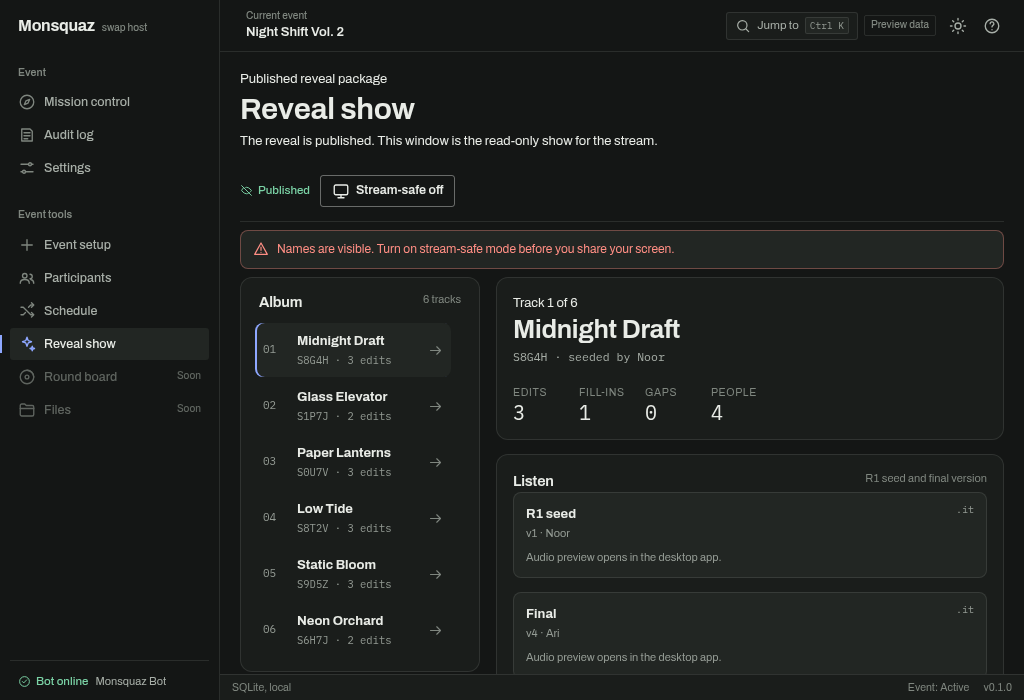
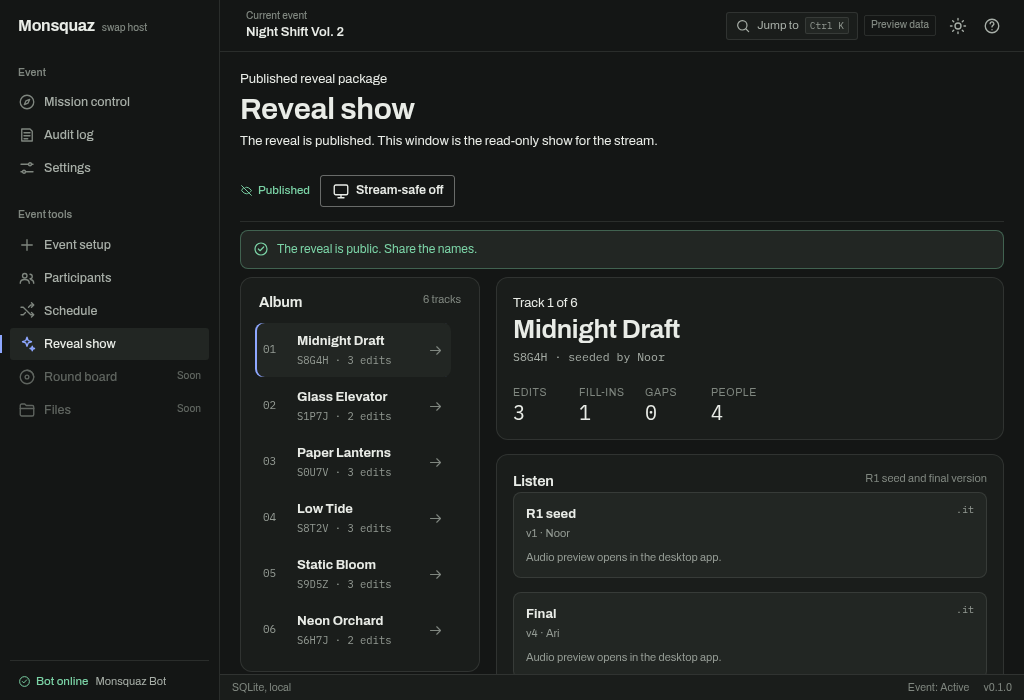
docs: record the reveal review and add the gap and blocked captures

Changed region(s): [[0.25, 0.33, 0.6562, 0.39]]

diff --git a/ui/src/views/Reveal.tsx b/ui/src/views/Reveal.tsx
@@ -8,7 +8,7 @@ import {
   StatusPill,
 } from "../components";
 import { Icon } from "../icons";
-import { previewUrl } from "../data/client";
+import { isDemoMode, previewUrl } from "../data/client";
 import type {
   RevealAlbumTrack,
   RevealComment,
@@ -72,10 +72,21 @@ export function RevealView({
   onAction: (message: string) => void;
 }) {
   const [selectedCode, setSelectedCode] = useState(
-    () => data.album[0]?.trackCode ?? "",
+    () =>
+      new URLSearchParams(window.location.search).get("track") ??
+      data.album[0]?.trackCode ??
+      "",
   );
   const [confirmStreamOff, setConfirmStreamOff] = useState(false);
-  const [publishBlocked, setPublishBlocked] = useState<string[]>([]);
+  const [publishBlocked, setPublishBlocked] = useState<string[]>(() => {
+    if (
+      isDemoMode() &&
+      new URLSearchParams(window.location.search).get("blocked") === "1"
+    ) {
+      return ["Track S7F3A · round 3"];
+    }
+    return [];
+  });
   const [titleDraft, setTitleDraft] = useState("");
   const [commentBody, setCommentBody] = useState("");
   const [commentKind, setCommentKind] = useState("comment");
@@ -323,9 +334,14 @@ export function RevealView({
 
       {streamSafe ? (
         <p className="reveal-safe-note" role="status">
-          <Icon name="shield" size={16} /> Name labels and the host editing tools
-          are hidden. Comment text is shown as written. Publishing stays
-          available.
+          <Icon name="shield" size={16} />
+          {data.published
+            ? " Stream-safe hides the public credits. Turn it off to show the reveal."
+            : " Name labels and the host editing tools are hidden. Comment text is shown as written. Publishing stays available."}
+        </p>
+      ) : data.published ? (
+        <p className="reveal-public-note" role="status">
+          <Icon name="check" size={16} /> The reveal is public. Share the names.
         </p>
       ) : (
         <p className="reveal-unsafe-note" role="status">
@@ -693,8 +709,9 @@ export function RevealView({
           }
         >
           <p>
-            Participant names and the host editing tools become visible. Only
-            turn this off when the screen is not shared.
+            {data.published
+              ? "Participant names, titles, credits, and comments become visible to the stream. This is the published reveal."
+              : "Participant names and the host editing tools become visible. Only turn this off when the screen is not shared."}
           </p>
         </Dialog>
       ) : null}

diff --git a/ui/src/App.test.tsx b/ui/src/App.test.tsx
@@ -216,6 +216,20 @@ describe("App", () => {
     expect(
       screen.queryByRole("button", { name: "Publish reveal" }),
     ).not.toBeInTheDocument();
+    expect(
+      screen.getByText(/Stream-safe hides the public credits/),
+    ).toBeInTheDocument();
+    fireEvent.click(screen.getByRole("button", { name: "Stream-safe mode" }));
+    const off = await screen.findByRole("dialog", {
+      name: "Turn off stream-safe mode?",
+    });
+    expect(within(off).getByText(/published reveal/i)).toBeInTheDocument();
+    fireEvent.click(
+      within(off).getByRole("button", { name: "Turn off stream-safe" }),
+    );
+    expect(
+      screen.getByText("The reveal is public. Share the names."),
+    ).toBeInTheDocument();
   });
 
   it("keeps the publish dialog open when the reveal is blocked", async () => {

diff --git a/ui/src/App.css b/ui/src/App.css
@@ -3758,7 +3758,8 @@ select.input {
 }
 
 .reveal-safe-note,
-.reveal-unsafe-note {
+.reveal-unsafe-note,
+.reveal-public-note {
   display: flex;
   align-items: center;
   gap: 8px;
@@ -3774,6 +3775,11 @@ select.input {
 .reveal-unsafe-note {
   border-color: color-mix(in srgb, var(--danger) 35%, transparent);
   color: var(--danger);
+}
+
+.reveal-public-note {
+  border-color: color-mix(in srgb, var(--mint) 35%, transparent);
+  color: var(--mint);
 }
 
 .button[aria-pressed="true"] {
@@ -4233,7 +4239,7 @@ select.input {
 }
 
 .reveal-audio__note {
-  color: var(--faint);
+  color: var(--faint-raised);
 }
 
 .reveal-audio__error {

diff --git a/docs/ui/reviews/MSW-050.md b/docs/ui/reviews/MSW-050.md
@@ -1,0 +1,115 @@
+# UI review — MSW-050 reveal presenter
+
+Review date: 2026-11-26. Build: MSW-050 worktree.
+
+Screenshots: `docs/ui/screens/reveal-*.png`.
+
+## Scope
+
+- Host-only reveal presenter: ordered album, lineage, R1/final audio, credits,
+  comments, stats, and the read-only published state.
+- Stream-safe mode: default on, persistence, confirmation before names show.
+- Publish reveal and redact-comment dialogs.
+- Titles and comments before publish.
+- The opaque audio preview protocol.
+- The deterministic design gate (`design/`, `scripts/design-check.sh`).
+
+## Wave 1 — Visual design
+
+| View | State | Severity | Problem | Resolution |
+|---|---|---|---|---|
+| Album card | Long event name | must-fix | The album heading collapsed and the event name overflowed the card. | The album meta is now only the track count. The detail title wraps. |
+| Album card | Dense, 1024 | must-fix | The sticky 12-track album exceeded the scrollport. | The album list has a bounded internal scroll area. |
+| Loading | All | must-fix | The skeleton was blank because its nodes had no size. | The view uses sized `Skeleton` components and a status label. |
+| Header and tools | Populated | must-fix | Publish, Save title, and stream-safe competed as primary actions. | Publish is the only primary. Save title and stream-safe are secondary. |
+| Listen, lineage, credits, comments | Dark | should-fix | Faint metadata and the Fill-in badge were below AA on raised surfaces. | Faint text uses `--faint-raised`; the badge uses `--accent`. |
+| Lineage | All | nit | The second version dot looked disabled. | Removed the arbitrary grey dot. Gaps use a hollow dot. |
+| Header actions | 1024 | nit | The actions wrapped into three rows. | The header stacks and the actions share one row. |
+
+No must-fix remained after the fixes. The reviewer re-checked the four must-fix
+items and reported no must-fix.
+
+## Wave 2 — UX and copy
+
+| View | State | Severity | Problem | Resolution |
+|---|---|---|---|---|
+| Publish dialog | Blocked | must-fix | A blocked publish closed the dialog and announced success. | The publish call returns a result. The dialog stays open, lists the blocking tracks, and announces the block. |
+| Stream-safe | All | must-fix | Mode started off and was lost on navigation. | It defaults on, lives in App state, persists in `sessionStorage`, and turning it off needs confirmation. |
+| Stream-safe | Not published | must-fix | The note said host tools were hidden while Publish stayed visible. | The note says publishing stays available. Editing tools are hidden. |
+| Stream-safe | Published | must-fix | The pre-publish warning told the host to hide the payoff after the reveal. | Published copy says the reveal is public. Safe mode explains that it hides the public credits. |
+| Loading | All | must-fix | The view was blank and silent. | Sized skeleton, status role, hidden loading text, and a focus target. |
+| Album | Long | must-fix | The event name dominated the album header. | Removed from the album card. The top bar keeps the event name. |
+| Lineage | Gap | must-fix | A skipped round vanished from the lineage. | Added an anonymous `Gap · no edit` row per skipped round. |
+| Stream-safe | All | must-fix | Role labels were inconsistent between Listen, Lineage, Credits, and Comments. | One role mapping: Seed owner, Editor N, Participant N. |
+| Host tools | Add comment | must-fix | Author and kind had no visible labels. | Visible Author and Kind labels, a fieldset legend, and character hints. |
+| Evidence | All | must-fix | No published, gap, blocked, 1024 dialog, or dense 1024 capture. | The capture matrix now includes these states. |
+
+No must-fix remained after the fixes. The reviewer re-checked the items and
+reported one published-copy issue, which is now fixed.
+
+## Wave 3 — Accessibility
+
+| View | State | Severity | Problem | Resolution |
+|---|---|---|---|---|
+| Header | All | must-fix | `aria-pressed` was dropped by the Button component. | Button forwards `aria-pressed`. Stream-safe has a stable name and a hidden description. |
+| Publish dialog | Blocked | must-fix | A blocked publish announced a false success. | The block stays in the dialog with `role="alert"`; success is announced only on publish. |
+| Loading | All | must-fix | The skeleton had no size, status, or focus target. | Sized skeletons, `role="status"`, hidden loading text, and a focusable h1. |
+| Reveal view | 30 s poll | must-fix | Polling set global loading and unmounted the view, losing focus and form state. | The reveal poll refreshes only the package. It does not change page status. |
+| Dialogs | Success | must-fix | Focus was restored to a removed trigger. | Dialog restores focus only when the trigger is connected; otherwise it focuses `#main h1`. |
+| Album | Long | must-fix | The album heading was unreadable. | Fixed with the album meta change. |
+| Audio note | Dark | must-fix | The preview note was 4.10:1 at 10.5 px. | It uses `--faint-raised` (5.39:1). The design gate reports 0 locked contrast findings. |
+| Redact buttons | Comments | should-fix | Every button was named “Redact”. | Each name includes the author. |
+| Dialog | All | should-fix | Tab could escape after clicking dialog text; background scrolled. | The trap redirects escaped focus. The dialog locks body scroll. |
+| Empty | All | should-fix | The empty state had no h1. | The view uses PageHeader and an Event setup action. |
+| Audio | All | should-fix | Audio labels omitted version and holder; errors were not live. | Descriptive names, described-by note, and `role="alert"` on errors. |
+| Lists | All | should-fix | `list-style: none` can remove semantics in Safari. | Album, lineage, credits, and comments use `role="list"`. |
+| Evidence | All | should-fix | The capture script had no reveal matrix. | `docs/ui/capture.sh` captures the full reveal matrix. |
+
+No must-fix remained after the fixes. The reviewer re-checked the seven
+must-fix items and reported the audio note contrast, which is now fixed.
+
+## Adversarial review
+
+| Area | Severity | Problem | Resolution |
+|---|---|---|---|
+| Stream-safe | must-fix | Mode started off and turned off with one click. | Default on, persisted, confirmation before disabling. |
+| Titles/comments | must-fix | State could change between the check and the write. | `open_event_in` rechecks inside the transaction. |
+| Reveal text | must-fix | A title or comment could inject mentions or extra lines. | Control characters are replaced, mentions are neutralized, and the HTTP adapter sends empty `allowed_mentions`. |
+| Preview | must-fix | File IDs were predictable and not event-scoped. | Per-process 128-bit tokens; the protocol requires the current event. |
+| ADR | should-fix | The rollback note claimed an older build ignores the schema. | It now states `SchemaTooNew` and backup restore. |
+| Privacy export | should-fix | Comments and title authorship were omitted. | The participant export includes both. |
+| Audit | should-fix | Redaction recorded only the track code. | It records the comment id. |
+| Title fallback | should-fix | The automatic previous-submitter fallback is not implemented. | The host sets the title. The feature file and ADR state the deferral. |
+
+The adversarial reviewer re-checked the four must-fix items and reported no
+must-fix with a merge verdict.
+
+## Deterministic design gate
+
+`scripts/design-check.sh` renders 22 pages at 1280×800, 1024×700, and
+640×400 with the pinned Refract commit. It also checks WCAG AA text contrast
+and visible keyboard focus with Playwright, and it checks the CSS policy in
+`design/policy.json`.
+
+- Locked and passing: no raw colors outside tokens, no layout `!important`,
+  contrast, focus, no horizontal overflow, no clipping, no hard text overflow,
+  and the viewport meta.
+- Baseline: zero locked findings.
+- Advisory: 130 spacing-scale, 13 type-scale, and 2 radius-scale findings.
+  These scales are not locked. Agents can fix them or change the advisory
+  rules. See `ai-rules/DESIGN.md`.
+
+## Evidence
+
+- `reveal-populated-*`, `reveal-stream-safe-*`, `reveal-populated-light-*`
+- `reveal-dense-dark-1280.png`, `reveal-dense-dark-1024.png`
+- `reveal-long-dark-1280.png`, `reveal-long-dark-1024.png`
+- `reveal-gap-dark-1280.png`
+- `reveal-credits-*`, `reveal-comments-*`, `reveal-tools-*`
+- `reveal-publish-*`, `reveal-blocked-dark-1280.png`, `reveal-redact-*`
+- `reveal-published-*`
+- `reveal-empty-dark-1280.png`, `reveal-loading-dark-1280.png`,
+  `reveal-error-dark-1280.png`
+- `reveal-populated-dark-zoom200.png`,
+  `reveal-stream-safe-dark-zoom200.png`
+- `design/baseline.json`, `design/policy.json`, `design/pages.json`
